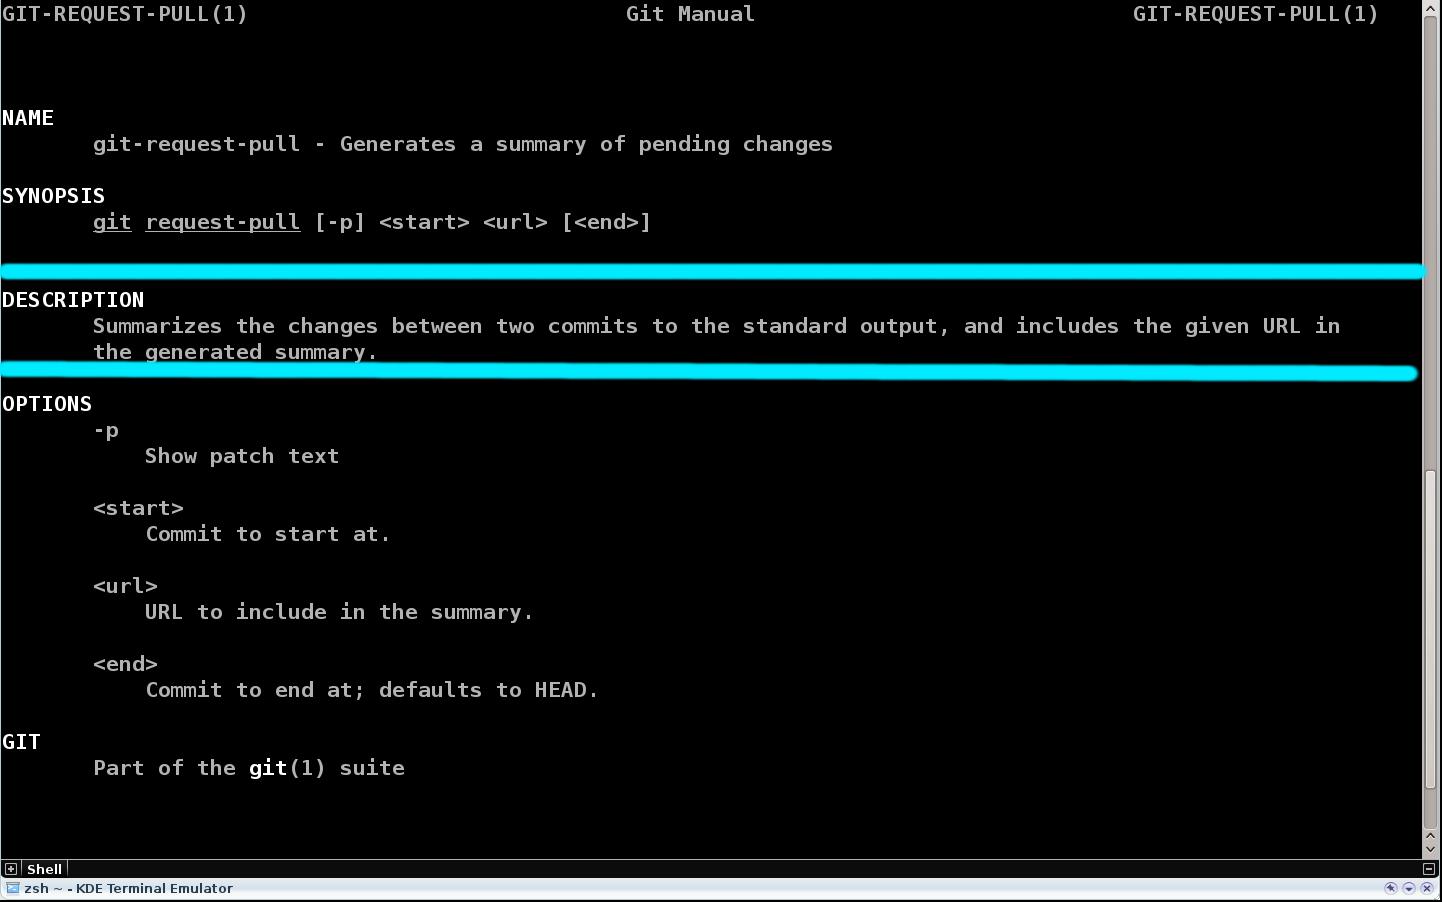
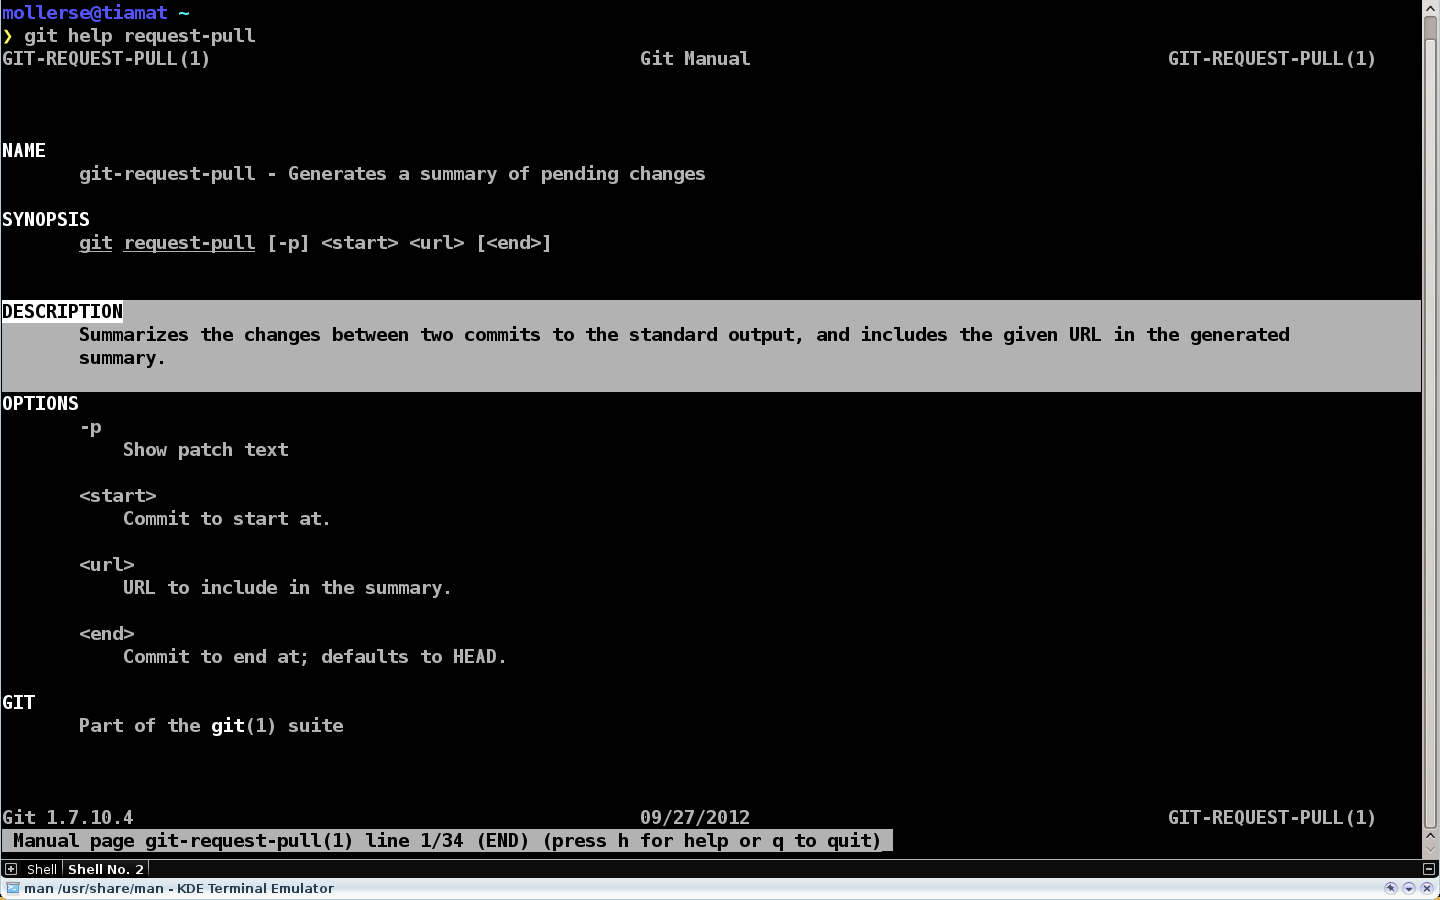
Finished jz13 presentation

diff --git a/jz13/index.html b/jz13/index.html
@@ -27,15 +27,10 @@
                 </section>
 
                 <section>
-                    <h2>Code Review</h2>
-                    <p></p>
-                </section>
-
-                <section>
                     <section>
-                        <h2>Hva vil du vite?</h2>
+                        <h2>Code Review</h2>
+                        <h3>Hva vil du vite?</h3>
                     </section>
-
                     <section>
                         <h2>Tre ting</h2>
                         <ol>
@@ -47,19 +42,20 @@
                 </section>
 
                 <section>
-                    <h2>Pull Requests</h2>
-                </section>
-
-                <section>
-                    <img src="assets/pr2.png" alt="">
-                </section>
-
-                <section>
+                    <section>
+                        <h2>Pull Requests</h2>
+                    </section>
+                    <section>
+                        <img src="assets/pr1.png" alt="">
+                    </section>
                     <section>
                         <h2><code>git request-pull</code></h2>
                     </section>
                     <section>
-                        <img src="assets/request-pull2.png" alt="">
+                        <img src="assets/manpage.png" alt="">
+                    </section>
+                    <section>
+                        <img src="assets/pr2.png" alt="">
                     </section>
                 </section>
 
@@ -69,11 +65,11 @@
                     </section>
                     <section>
                         <h2>Github</h2>
-                        <img src="" alt="Bilde av githubs url">
+                        <h3>user/repo</h3>
                     </section>
                     <section>
                         <h2><code>git</code></h2>
-                        <img src="" alt="Bilde av param til git-kommando og output">
+                        <img src="assets/pr2-url.png" alt="Bilde av param til git-kommando og output">
                     </section>
                 </section>
 
@@ -86,22 +82,22 @@
                     </section>
                     <section>
                         <h2>Github</h2>
-                        <img src="" alt="Bilde av githubs commit-overview">
+                        <img src="assets/pr1-commits.png" alt="Bilde av githubs commit-overview">
                     </section>
                     <section>
                         <h2><code>git</code></h2>
-                        <img src="" alt="Bilde av git request-pull output">
+                        <img src="assets/pr2-commits.png" alt="Bilde av git request-pull output">
                     </section>
                     <section>
                         <h2>Endringer</h2>
                     </section>
                     <section>
                         <h2>Github</h2>
-                        <img src="" alt="Bilde av githubs diff-view">
+                        <img src="assets/pr1-diff.png" alt="Bilde av githubs diff-view">
                     </section>
                     <section>
                         <h2><code>git</code></h2>
-                        <img src="" alt="Bilde av patch-output">
+                        <img src="assets/pr2-diff.png" alt="Bilde av patch-output">
                     </section>
                 </section>
 
@@ -111,55 +107,67 @@
                     </section>
                     <section>
                         <h2>Github</h2>
-                        <img src="" alt="Bile av githubs merge-summary">
+                        <img src="assets/pr1-merge.png" alt="Bile av githubs merge-summary">
                     </section>
                     <section>
                         <h2><code>git</code></h2>
-                        <p>Her må vi trikse litt</p>
+                        <h3><code>git request-pull -p > pr.patch</code></h3>
+                        <h3><code>git checkout master</code></h3>
+                        <h3><code>git apply --check pr.patch</code></h3>
                     </section>
                     <section>
-                        <h2><code>git format-patch</code></h2>
-                        <h3>og</h3>
-                        <h2><code>git apply</code></h2>
+                        <h2>Tips</h2>
+                        <h3>Legg til .patch på slutten av urlen til en pull-request på github</h3>
                     </section>
                     <section>
                         <h2>Testresultater</h2>
                     </section>
                     <section>
                         <h2>Github</h2>
-                        <img src="" alt="Bilde av CI-integrasjon">
+                        <img src="assets/ci.png" alt="Bilde av CI-integrasjon">
                     </section>
                     <section>
                         <h2><code>git</code></h2>
-                        <h3><code>git merge</code></h3>
+                        <h3><code>git checkout -b temp</code></h3>
+                        <h3><code>git merge pr-example</code></h3>
+                        <h3><code>run tests</code></h3>
                     </section>
                 </section>
 
                 <section>
-                    <h2>Mindre støy</h2>
-                    <h3>Du får se akkurat det som er endret</h3>
+                    <h2>Github bonus</h2>
+                    <h3>Diskusjoner</h3>
                 </section>
 
                 <section>
-                    <h2>Mye informasjon</h2>
-                    <h3>Meta-informasjon om endringene</h3>
-                </section>
-
-                <section>
-                    <h2>Fordeler</h2>
-                    <ul>
-                        <li>Delvis workflow-uavhengig</li>
-                        <li>Må ikke bruke Github</li>
-                        <li>Kan automatiseres</li>
-                    </ul>
+                    <section>
+                        <h2>Oppsummering</h2>
+                    </section>
+                    <section>
+                        <h2>Mindre støy</h2>
+                        <h3>Du får se akkurat det som er endret</h3>
+                    </section>
+                    <section>
+                        <h2>Mye informasjon</h2>
+                        <h3>Meta-informasjon om endringene</h3>
+                    </section>
                 </section>
 
                 <section>
                     <h2>Begrensninger</h2>
                     <ul>
                         <li>Må bruke branches</li>
-                        <li>Store endringer kan bli uoversiktlige</li>
+                        <li>Branches må være tilgjengelige</li>
                         <li>Langt-levende branches</li>
+                    </ul>
+                </section>
+
+                <section>
+                    <h2>Fordeler</h2>
+                    <ul>
+                        <li>(Delvis) workflow-uavhengig</li>
+                        <li>Må ikke bruke Github</li>
+                        <li>Kan automatiseres</li>
                     </ul>
                 </section>
 
